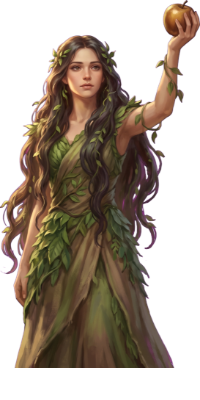
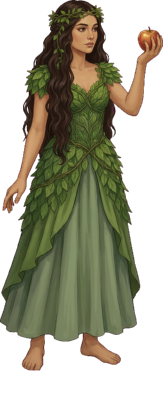
Eden and Elijah get their feet back
Two of the pre-pipeline raster skins shipped as busts: Eden was cut off
at the hem with no feet, Elijah at the knees. A bust looks perfect in
every avatar circle (the chip crops to a portrait) and becomes a
floating torso the moment the character stands somewhere — the road, the
churchyard, the Upper Room, ProfileHero all render the SAME file with
fullBody. check-art couldn't see it: both cleared the 1.05 ratio floor
(1.84 and 1.55), because "taller than wide" is not the same test as
"has feet". Found by looking, the way the CLAUDE.md skin rule says to.

Every other shipped skin was checked the same way and stands on its
feet, so it is exactly these two. Both re-rendered through Nano Banana
(art/skins-refit.json) against the Moses/Esther style refs, with the
prompt naming the previous crop as the rejected outcome and putting the
feet on the bottom edge three times over. Eden keeps her leaf dress,
vine crown and raised apple; Elijah his camel-hair mantle, staff and
raven. 2.28 and 2.38 tall, clean cut-outs, wired through generatedArt
(which wins over RASTER_SKINS, and points at the same path anyway).

Claude-Session: https://claude.ai/code/session_0153fVvkJNGFEFMiB9VqwBww

diff --git a/src/data/generatedArt.ts b/src/data/generatedArt.ts
@@ -58,6 +58,8 @@ export const GENERATED_ART: Record<string, string> = {
   'churchyard': '/church/churchyard.jpg',
   'cross_beam': '/items/cross_beam.png',
   'deborah': '/skins/deborah.png',
+  'eden': '/skins/eden.png',
+  'elijah': '/skins/elijah.png',
   'francis': '/skins/francis.png',
   'hall-2': '/keep/hall-2.png',
   'hall-3': '/keep/hall-3.png',

diff --git a/art/README.md b/art/README.md
@@ -22,6 +22,7 @@ must never be written into a tracked file.
 | `skins-porchlight.json` | the Porchlight creator-collab skin (curls, cream knit, ukulele) | `public/skins/porchlight.png` |
 | `arcade.json` | the backdrops of the three arcade machines — the wilderness, the blank page, the workshop wall | `public/arcade/arcade_*.jpg` |
 | `skins-patron.json` | Cephas, the founding-patron skin — Peter with the keys, standing on the bedrock | `public/skins/cephas.png` |
+| `skins-refit.json` | re-renders of pre-pipeline skins that shipped as busts (Eden cut at the hem, Elijah at the knees) — full length, head to feet | `public/skins/eden.png`, `public/skins/elijah.png` |
 
 **Check what came back**, every time:
 
